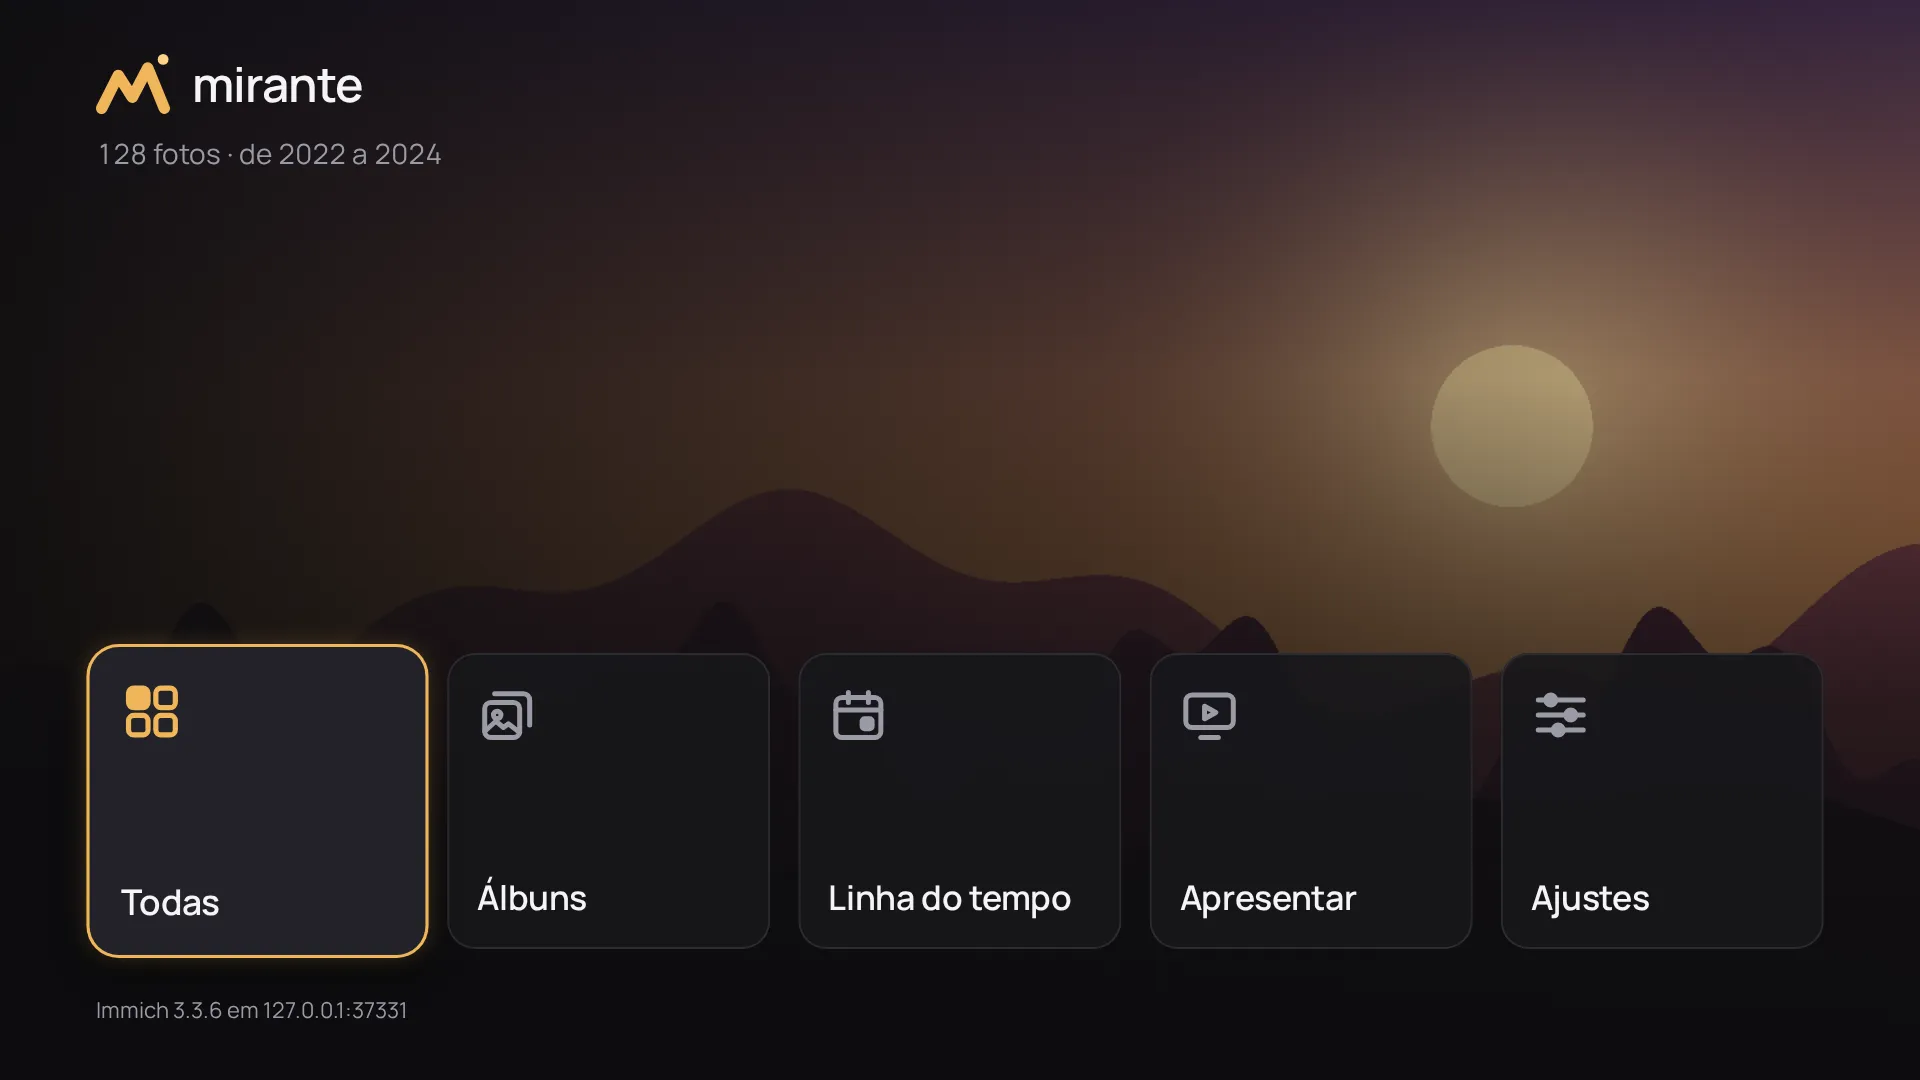
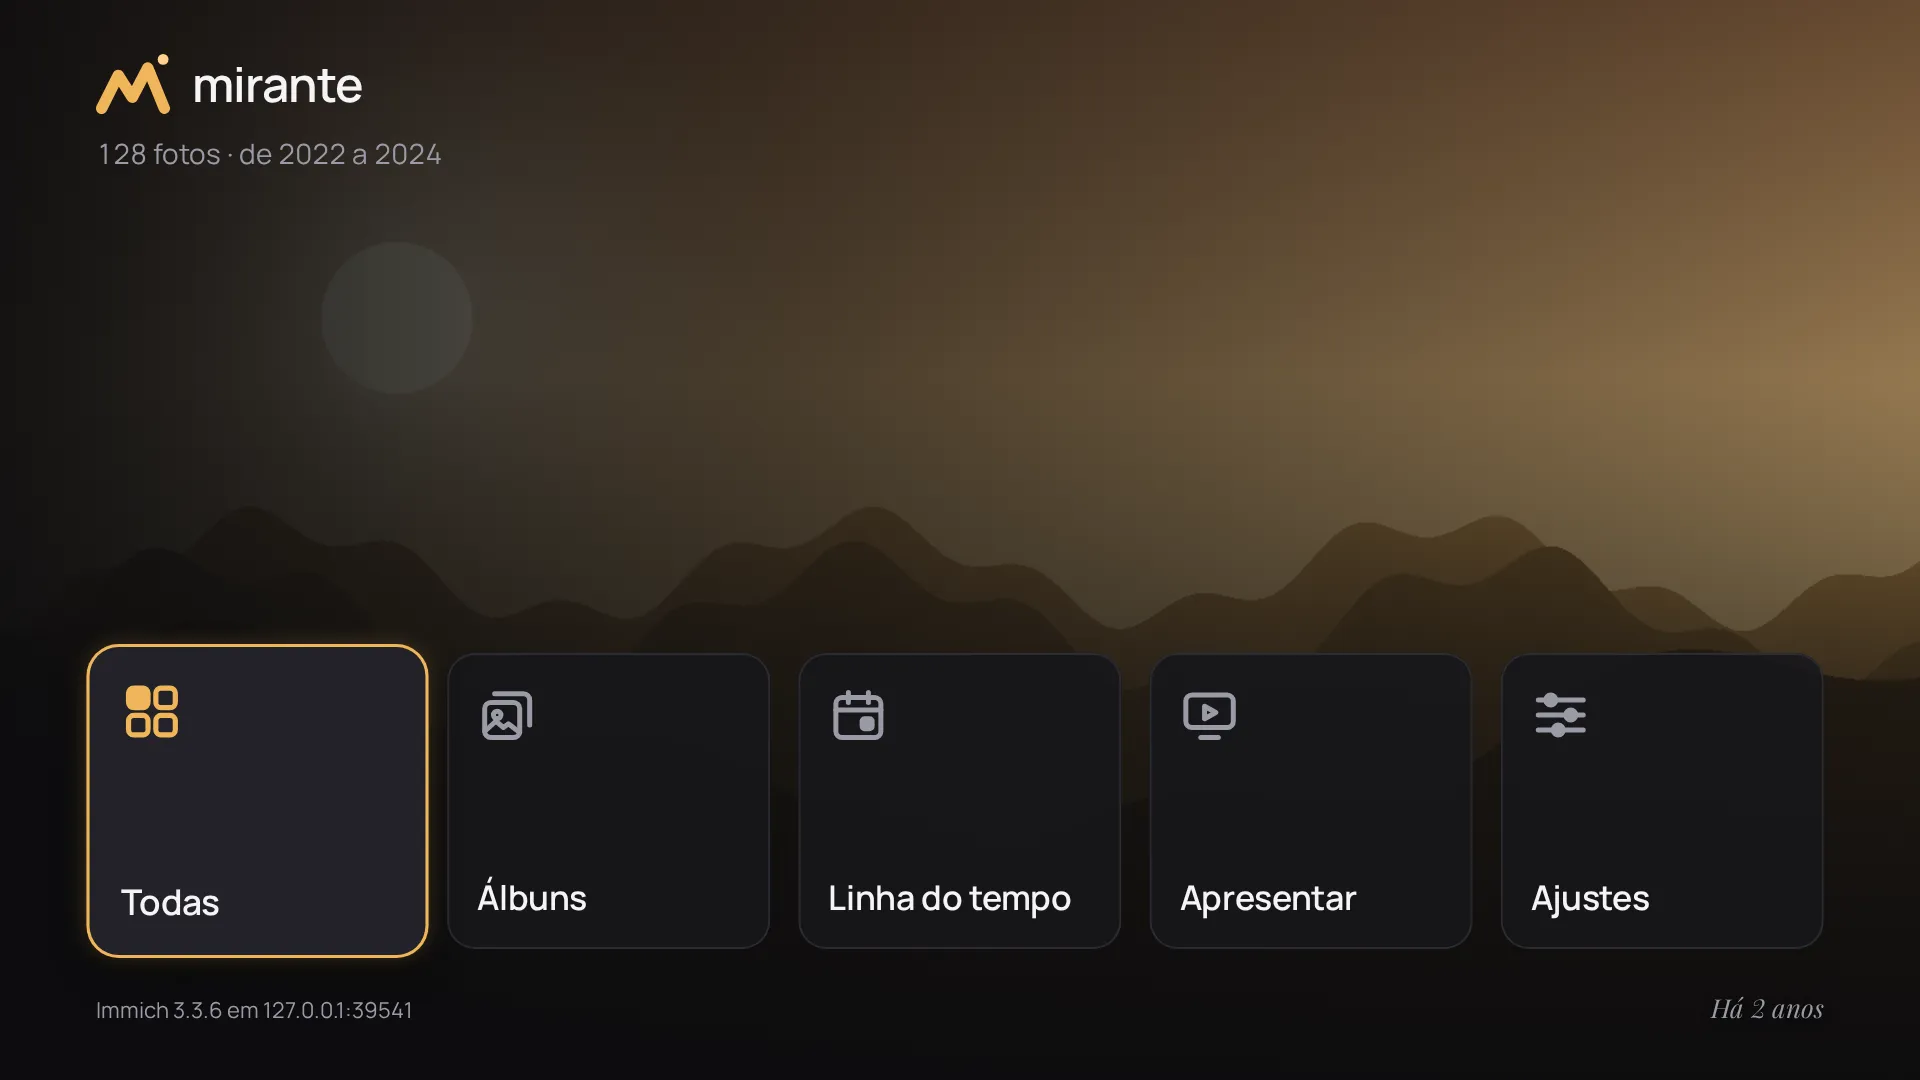
docs: document this day in past years, its route, and capture it
README, CHANGELOG and CLAUDE.md describe the photos of this day in past
years behind the start screen; docs/proxy.md adds POST
/api/search/metadata to the routes the proxy lets through, with the body
it carries, and to its Caddyfile. The screenshots fix the day on the
clock of the browser, so that the start screen shows the photos of the
trip to Lisbon two years before, with their caption.

diff --git a/e2e/screenshots.test.ts b/e2e/screenshots.test.ts
@@ -41,6 +41,9 @@ const BACK = 'Escape'
 const SETTINGS_KEY = 'mirante.presentation'
 const WIDE_SETTINGS = { bookFormat: 'wide', hideInterfaceSeconds: 20 }
 const CLASSIC_SETTINGS = { bookFormat: 'classic', hideInterfaceSeconds: 20 }
+// The day on the clock of the browser: the trip to Lisbon began on it, two years before, so that its
+// photos take turns behind the start screen.
+const TODAY = new Date(2026, 8, 12, 10)
 // The photos of the book are drawn first, larger than the others.
 const BOOK_TIMEOUT_MS = 180_000
 
@@ -66,6 +69,7 @@ afterAll(async () => {
 
 async function open(viewport = VIEWPORT): Promise<Page> {
   const page = await browser.newPage({ viewport })
+  await page.clock.setFixedTime(TODAY)
   await page.goto(indexUrl)
   return page
 }

diff --git a/docs/proxy.md b/docs/proxy.md
@@ -17,6 +17,7 @@ Every route is under `/api` of the address in `immichUrl`. Nothing else reaches 
 | `GET`  | `/api/timeline/buckets`      | the months of the timeline (with their counts, for the start screen), or of an album (`albumId`) | `asset.read`      |
 | `GET`  | `/api/timeline/bucket`       | the photos of a month (`timeBucket`), of the timeline or of an album (`albumId`)                 | `asset.read`      |
 | `POST` | `/api/search/random`         | **new**: a random draw of the library for its presentation, 200 photos a round (see below)       | `asset.read`      |
+| `POST` | `/api/search/metadata`       | **new**: the photos of this day in past years, behind the start screen (see below)               | `asset.read`      |
 | `GET`  | `/api/assets/{id}`           | **new**: the detail of one photo, for its caption (`exifInfo.description`)                       | `asset.read`      |
 | `GET`  | `/api/assets/{id}/thumbnail` | the images: `?size=thumbnail` in the grids, `?size=preview` in the viewer; loaded by `<img src>` | `asset.view`      |
 
@@ -26,6 +27,13 @@ Details that matter for the allow list:
   hence the `POST`. Mirante sends this body, with `Content-Type: application/json`, once when a
   presentation of the whole library starts and once more for each later round:
   `{"size": 200, "type": "IMAGE", "visibility": "timeline", "withExif": false}`.
+- **`POST /api/search/metadata` only reads**, like the random draw: a search by date, once a visit
+  of the start screen, one per past year that holds photos near this day (read from
+  `/api/timeline/buckets`), and as many again for the days after it only when no year has a photo
+  on this very day. Each body asks for at most 20 photos of the timeline, without videos or EXIF
+  data, taken in a window of about a month:
+  `{"takenAfter": "2023-10-07T10:00:00.000Z", "takenBefore": "2023-11-08T12:00:00.000Z", "type": "IMAGE", "visibility": "timeline", "withExif": false, "size": 20, "orderBy": {"field": "localDateTime", "direction": "desc"}}`.
+  Refused, it goes to the log and the start screen shows the cover of the most recent album.
 - **`GET /api/assets/{id}` is asked for two photos at a time**: the one on the screen and the next
   one, only while a viewer or a presentation shows captions, and each photo once while it is near
   the screen. It never lists the library. Immich answers `PUT` on the same route (it edits the
@@ -37,7 +45,8 @@ Details that matter for the allow list:
   Immich also answers `size=fullsize` and `size=original` there, which serve the full image: allow
   the two small sizes only.
 - An `OPTIONS` preflight comes before the calls of the packaged apps, which load from `file://`, so
-  that every call crosses origins; for `POST /api/search/random` it asks to send `Content-Type`.
+  that every call crosses origins; for the two searches (`POST /api/search/random` and
+  `POST /api/search/metadata`) it asks to send `Content-Type`.
 
 The key the proxy sends needs `album.read`, `asset.read` and `asset.view`, and nothing more.
 
@@ -48,7 +57,7 @@ Everything else under `/api`, and in particular:
 - `GET /api/assets/{id}/original` and `/api/download/...`: the original files;
 - `GET /api/assets/{id}/video/playback`: the videos (Mirante leaves videos out);
 - `/api/assets/{id}/thumbnail` with `size=fullsize` or `size=original`;
-- any `PUT`, `PATCH` or `DELETE`, and any `POST` but the two above: they upload, edit, favorite,
+- any `PUT`, `PATCH` or `DELETE`, and any `POST` but the three above: they upload, edit, favorite,
   archive or delete.
 
 ## CORS, for the packaged apps
@@ -108,11 +117,12 @@ port, the folder and the address of Immich.
 		import immich
 	}
 
-	@random_draw {
+	# The two searches, which only read: the random draw and the search by date.
+	@searches {
 		method POST
-		path /api/search/random
+		path /api/search/random /api/search/metadata
 	}
-	handle @random_draw {
+	handle @searches {
 		import immich
 	}
 

diff --git a/CLAUDE.md b/CLAUDE.md
@@ -48,7 +48,9 @@ src/core/      pure logic: the startup flow, the runtime configuration, the phot
                its domain types, the order of albums, photos and months, the spatial focus navigation
                of the grids, the scroll that keeps the focus of a long list in view (list-scroll), the feed of every photo ("Todas": photo-feed, its months read on demand,
                and feed-layout, its grid with a heading per month), the count of the library under
-               the logo (library-summary), the stack of screens, the remote control keys, and the presentations:
+               the logo (library-summary), the photos behind the start screen (backdrop: this day
+               in past years, on-this-day, the nearest day up to 30 days away, on the days of the
+               calendar of calendar.ts; else the cover of the latest album), the stack of screens, the remote control keys, and the presentations:
                their settings (presentation-settings, settings-input, settings-storage,
                settings-form), the engine (presentation: playlists, rounds, what loads ahead), the
                seeded shuffle, their sources, the transitions (presentation-effects) and the captions;
@@ -61,7 +63,8 @@ src/core/      pure logic: the startup flow, the runtime configuration, the phot
 src/immich/    the photo library implemented with @immich/sdk, read only
 src/platform/  what differs between TVs and browsers: config.json, polyfills, the console, the key
                codes of the remote controls of Tizen and webOS (and the Info key Tizen registers),
-               the localStorage of the settings and of the seeds of the books, the random seeds
+               the localStorage of the settings and of the seeds of the books, the random seeds,
+               the day on the TV's clock (local-date)
 src/ui/        Preact components, src/ui/messages.ts (every text people read, with its companions
                settings-messages.ts and book-messages.ts, split for the size of a file), styles.css, the
                fonts it ships (src/ui/fonts) and the mark and the icon of the logo (src/ui/assets,
@@ -110,7 +113,7 @@ docs/          docs/webos.md and docs/tizen.md: packaging, Developer Mode, signi
   never the original.
 - **Read only**: the adapter only calls endpoints that read (the key check `POST /auth/validateToken`
   changes nothing and needs no permission; `POST /search/random`, the random draw of the library,
-  only carries its filters). Never upload, edit, delete, favorite or archive. `docs/proxy.md` lists
+  and `POST /search/metadata`, the search by date of the start screen, only carry their filters). Never upload, edit, delete, favorite or archive. `docs/proxy.md` lists
   every route and method the app calls, for the owner's proxy to allow exactly those: a change in
   what reaches Immich updates it, and `CHANGELOG.md` says so.
 - **Captions** come from `GET /assets/{id}` (`exifInfo.description`; the listings do not carry

diff --git a/README.md b/README.md
@@ -85,8 +85,13 @@ in focus in **Todas**, which OK in the viewer does too, for remote controls with
 | Settings | the settings of the presentations, with their values      | flips a switch                 | keeps them, start                  |
 
 The app opens on its logo while it connects to Immich, and moves on to the start screen as soon as
-the server answers. Behind the start screen lies the cover of the most recent album, darkened (a
-plain background when no album has a cover), under the logo, a line that says what the library
+the server answers. Behind the start screen lie, darkened, the photos taken on this day in past
+years: up to 10, taking turns every 15 seconds with a fade, each with a discreet caption in its
+lower right corner, **Há 3 anos**. Without any on this very day, the nearest day that has some, up
+to 30 days before or after it in any past year (**Há 3 anos, em 4 de novembro**); this year's photos
+never count. The choice stays the same all day long and changes the next day. "Today" is the day on
+the TV's own clock, and a photo's date is the one Immich shows, where it was taken. Without photos
+near this day, the cover of the most recent album; without one, a plain background. Under the logo, a line that says what the library
 holds (**12.340 fotos · de 2019 a 2026**, counted from the months of the timeline, videos included
 as Immich counts them; nothing for an empty library or when the read fails) and five cards:
 **Todas**, **Álbuns**, **Linha do tempo**, **Apresentar** and **Ajustes**.

diff --git a/CHANGELOG.md b/CHANGELOG.md
@@ -91,6 +91,19 @@ All notable changes to Mirante are documented in this file. The format is based 
 
 ### Added
 
+- **This day in past years, behind the start screen.** The cover of the most recent album gives way
+  to the photos taken on today's day in the years before this one, up to 10 a visit, taking turns
+  every 15 seconds with a fade, each with a discreet caption: **Há 3 anos**. Without any on this
+  very day, the nearest day that has some, up to 30 days before or after it in any past year
+  (**Há 3 anos, em 4 de novembro**). Only without photos near this day does the cover of the most
+  recent album come back, and last the plain background. This year's photos and videos never
+  count, a photo's date is the one Immich shows (where it was taken), "today" is the day on the
+  TV's clock, February 29th falls on the 28th of the other years, and the choice stays the same all
+  day long. **The proxy needs one more route**: `POST /api/search/metadata`, a search by date that
+  only reads, once a visit, one per past year with photos near this day
+  ([docs/proxy.md](docs/proxy.md)). A proxy that refuses it leaves the cover of the most recent
+  album behind the start screen, and the refusal in the log.
+
 - **Todas**, every photo of the library, the most recent first, like the "Recents" of a phone: one
   continuous grid with the name of each month and its count above its photos ("Novembro de 2026 ·
   312 fotos"). It reads the months from the most recent one, one at a time, as the focus nears the
